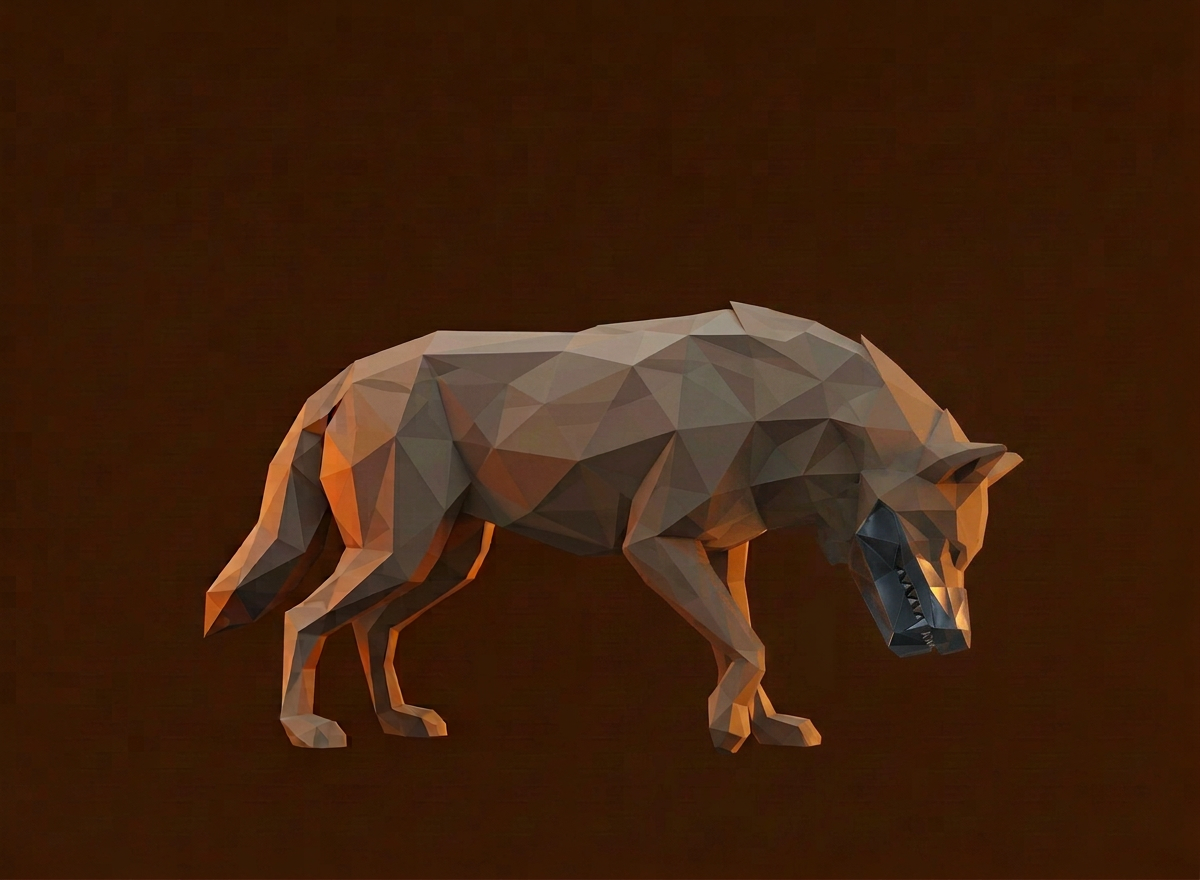
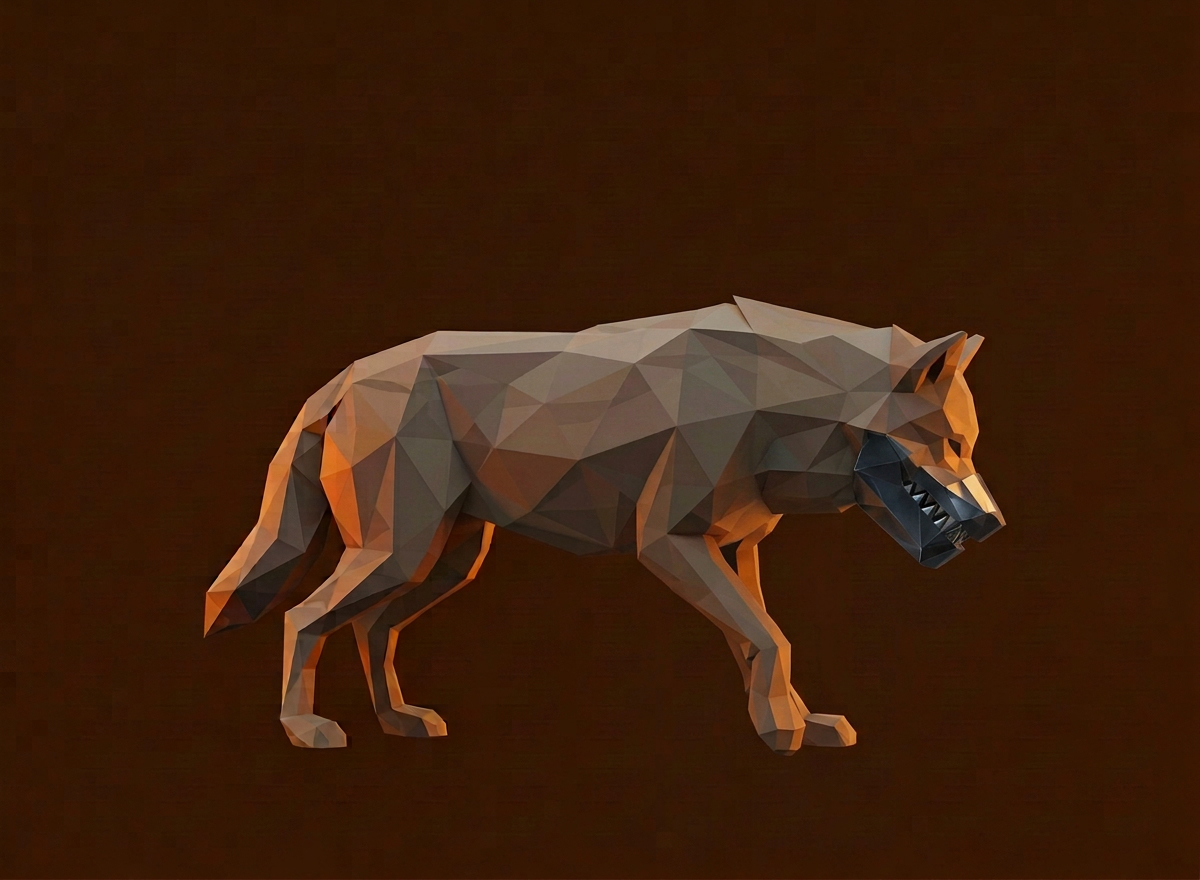
Gêmeos (fonte): Mandíbula com placa de aço padronizada (v7 em walk_key_0/4/5/6, death_0/1/2/3/6, atk_4); manifesto corrigido (sombra, contagem 58 PNGs)

Changed region(s): [[0.5242, 0.3375, 0.8633, 0.767], [0.4933, 0.5216, 0.7092, 0.8591], [0.555, 0.4602, 0.7092, 0.4909]]

diff --git a/art-source/gemeos-lowpoly/README.md b/art-source/gemeos-lowpoly/README.md
@@ -2,15 +2,20 @@
 
 Originais gerados por IA, em 1200×880, comprimidos sem perda. **Não são os sprites do jogo.**
 Os sprites usados pelo jogo continuam em `assets/sprites/raid/` (pixel art 56×36) até a etapa de corte e integração.
-Esta pasta está em ~61 MB: é o custo de guardar os originais no Git, decidido com o usuário.
+Esta pasta tem 58 PNGs (~64 MB): 33 da Mandíbula e 25 das Patas. Guardar os originais no Git foi decidido com o usuário, mas essa decisão ainda não está confirmada para o total.
 
 Corpo: lobo normal em laranja-acastanhado. Mandíbula e Patas são o lobo com a peça de aço.
 
+## Padrão da Mandíbula (placa de aço única)
+Uma placa de aço escura do queixo à bochecha, com dentes, visível com a boca fechada. Sem pelo sobre a placa e sem dentes soltos. Ataques com boca aberta podem mudar a pose, mas não o desenho da placa.
+Os quadros v7 foram gerados a partir da base v2 para uniformizar o desenho. Os quadros da v2 com desenho fora do padrão foram substituídos.
+
 ## Inspeção (última rodada)
-- Todos os quadros estão sem sombra de chão, exceto os que foram corrigidos (ver `death_3` abaixo).
+- Nenhum quadro tem sombra de chão. Medido: o conteúdo mais baixo fica acima de y≈760 em todos os quadros de morte e caminhada.
 - Quase todos têm 1 pixel isolado nas bordas direita/inferior. É ruído do gerador: o corte com maior componente conectado descarta esse pixel.
-- `patas_atk_5`: 1 pixel de borda, mesmo caso.
-- Conformidade medida em miniatura e em ampliação pontual. Não é uma conferência quadro a quadro em ampliação.
+- `patas_atk_5`: a pata estendida termina em x≈1050 de 1200, sem corte. É a pose mais longa do conjunto; conferir no jogo.
+- Conformidade da Mandíbula verificada por comparação visual em folha de contato (todos os 33 quadros). A medição por cor de aço não serve, porque a iluminação varia.
+- Pernas de aço das Patas: ainda não conferidas em ampliação quadro a quadro.
 
 ## Patas (duas patas dianteiras de aço com duas garras cada)
 | Conjunto | Código (`js/creatures.js`) | Arquivos aqui | Estado |
@@ -19,32 +24,34 @@ Corpo: lobo normal em laranja-acastanhado. Mandíbula e Patas são o lobo com a 
 | Repouso | `idle: 4` | `patas_idle_0..4` (5) | Pendente: escolher 4. Sugestão: base, `idle_1`, `idle_2`, `idle_3`. `idle_4` fica de fora |
 | Caminhada | `walk: 16` | nenhum | Pausada: pata distante fora do modelo nas tentativas anteriores |
 | Dano | `hurt: 3` | `patas_hurt_0..2` | Aceito |
-| Ataque | `attack: 9` | `patas_atk_0..8` | Aceito; `atk_5` com pata mais esticada, conferir no jogo |
+| Ataque | `attack: 9` | `patas_atk_0..8` | Aceito; `atk_5` com pata longa, sem corte |
 | Morte | `death: 7` | `patas_death_0..6` | Aceito; `death_3` e `death_4` refeitos |
 
-## Mandíbula v2 (mandíbula de aço grande e visível, também com a boca fechada; pernas sem aço)
+## Mandíbula v2/v7 (mandíbula de aço grande e visível, também com a boca fechada; pernas sem aço)
 A v1 tinha mandíbula pequena e não aparecia com a boca fechada. A v2 foi refeita a partir dela; os quadros da v1 foram removidos.
 
 | Conjunto | Código | Arquivos aqui | Estado |
 |---|---|---|---|
 | Base | — | `mandibula_base_v2.png` (= `mandibula_v2_idle_0`) | Aceita |
 | Repouso | `idle: 5` | `mandibula_v2_idle_0..4` (5 de 5) | Aceito |
-| Caminhada | `walk: 16` | `mandibula_v2_walk_key_0..7` (8 de 16) | **Provisória.** `key_3` e `key_5` com pernas a conferir. Faltam 8 intermediários |
+| Caminhada | `walk: 16` | `mandibula_v2_walk_key_0..7` (8 de 16) | **Provisória.** `key_0,4,5,6` são v7; `key_1,2,3,7` são v2. Pernas de `key_3` a conferir. Faltam 8 intermediários |
 | Dano | `hurt: 3` | `mandibula_v2_hurt_0..2` (3 de 3) | Aceito |
-| Ataque | `attack: 9` | `mandibula_v2_atk_0..8` (9 de 9) | Aceito |
-| Morte | `death: 7` | `mandibula_v2_death_0..6` (7 de 7) | Aceito. `death_3` refeito sem sombra |
+| Ataque | `attack: 9` | `mandibula_v2_atk_0..8` (9 de 9) | Aceito. `atk_3` v4, `atk_4` v7, `atk_5` v3, demais v2 |
+| Morte | `death: 7` | `mandibula_v2_death_0..6` (7 de 7) | Aceito. `death_0,1,2,3,6` são v7 (`death_3` sem sombra). `death_4` v2, `death_5` v5 |
 
 ## Descartados (não estão aqui)
 - Versões cinzas das Patas (`patas_base_cinza`, `patas_key_*`): o usuário pediu o corpo laranja.
 - Caminhada de 8 quadros-chave das Patas (`patas_k*`): pata distante fora do chão.
 - Mandíbula v1 (base e repouso pequenos): substituída pela v2.
 - Versão v3 das Patas e os primeiros quadros de morte e ataque: perdidos no reinício do ambiente.
-- Quadros reprovados da v2: `idle_2` antigo (cabeça alta), `atk_3` antigo (bloco de pedra na boca), `atk_4` antigo (duas cabeças), `atk_5` antigo (corpo longo e fino), `death_3` v5 (sombra de chão).
+- Quadros reprovados da v2: `idle_2` antigo (cabeça alta), `atk_3` antigo (bloco de pedra na boca), `atk_4` antigo (duas cabeças), `atk_5` antigo (corpo longo e fino).
+- Mandíbula v4/v5 usadas antes: `atk_4` v5 e `death_3` v5 (sombra de chão), `death_3` v6 (substituído pela v7), `death_6` v4 e `atk_3` v4 (aceitos, ainda usados).
 
 ## Pendências para integrar
 1. Patas: confirmar os 4 quadros de repouso.
-2. Mandíbula: conferir `walk_key_3` e `walk_key_5`; gerar 8 intermediários da caminhada.
-3. Patas: caminhada (8 keys e 8 intermediários), depois de aprovar uma base de caminhada.
+2. Mandíbula: conferir as pernas de `walk_key_3`; gerar 8 intermediários da caminhada.
+3. Patas: pernas de aço em ampliação quadro a quadro; caminhada (8 keys e 8 intermediários), depois de aprovar uma base de caminhada.
 4. Corte com `cutlib` para 56×36, pés na linha 36, e medições.
 5. Atualizar `js/creatures.js` apenas quando as contagens baterem.
 6. Build, testes e conferência no navegador.
+7. Decidir com o usuário se os ~64 MB de PNG ficam no Git.
